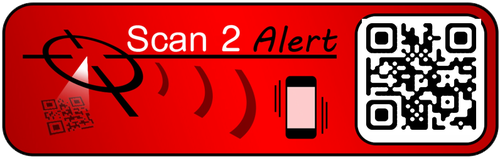
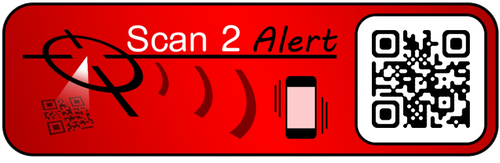
Pegatina horizontal: QR más pequeño, sin tocar las esquinas del recuadro
Claude-Session: https://claude.ai/code/session_013R8ZDYyWaBdvK9dXFoGibW

Changed region(s): [[0.72, 0.092, 0.99, 0.7975]]

diff --git a/index.html b/index.html
@@ -174,7 +174,7 @@ footer a{color:#fff;text-decoration:none}
   <div class="carrow">
     <figure class="cf big"><img class="tint" src="/img/mustang.png" alt="Mustang con las pegatinas Scan 2 Alert en el parabrisas y la ventanilla"><figcaption>Pégala por dentro del cristal, en espejo.<br>Elige un rojo intenso o un color más discreto: <span class="sw"><button type="button" class="swb on" data-c="#fe0000" title="Rojo" aria-label="Rojo" style="background:#fe0000"></button><button type="button" class="swb" data-c="#ff3300" title="Naranja" aria-label="Naranja" style="background:#ff3300"></button><button type="button" class="swb" data-c="#f6df00" title="Amarillo" aria-label="Amarillo" style="background:#f6df00"></button><button type="button" class="swb" data-c="#2e9e3a" title="Verde" aria-label="Verde" style="background:#2e9e3a"></button><button type="button" class="swb" data-c="#f0599b" title="Rosa" aria-label="Rosa" style="background:#f0599b"></button><button type="button" class="swb" data-c="#004c98" title="Azul" aria-label="Azul" style="background:#004c98"></button><button type="button" class="swb" data-c="#009cd7" title="Azul claro" aria-label="Azul claro" style="background:#009cd7"></button><button type="button" class="swb" data-c="#b4b9bc" title="Gris claro" aria-label="Gris claro" style="background:#b4b9bc"></button><button type="button" class="swb" data-c="#4a4f53" title="Gris oscuro" aria-label="Gris oscuro" style="background:#4a4f53"></button></span></figcaption></figure>
     <figure class="cf"><img class="tint" src="/img/pegatina-qr-redondeado.png" alt="Pegatina vertical"><figcaption>Parabrisas y luna trasera</figcaption></figure>
-    <figure class="cf"><img class="tint" src="/img/pegatina-horizontal.png" alt="Pegatina horizontal" style="width:100%"><figcaption>Ventanillas laterales</figcaption></figure>
+    <figure class="cf"><img class="tint" src="/img/pegatina-horizontal.png?v=2" alt="Pegatina horizontal" style="width:100%"><figcaption>Ventanillas laterales</figcaption></figure>
     <figure class="cf"><div class="phw"><img class="bm tl" src="/img/boomerang-rojo.png" alt=""><img class="bm tr" src="/img/boomerang-rojo.png" alt=""><img class="bm bl" src="/img/boomerang-rojo.png" alt=""><img class="bm br" src="/img/boomerang-rojo.png" alt=""><div class="ph" aria-label="Móvil sonando con la alerta a pantalla completa"><div class="scr"><small class="mm">Mi Mustang molesta</small><span class="sir"><img class="bn" src="/img/sirena-bn.png" alt=""><img class="rj" src="/img/sirena.png" alt=""></span><b>¡ALERTA!</b><em>Te avisan de tu coche</em></div></div></div><figcaption>Sirena en tu móvil</figcaption></figure>
   </div>
   <div class="tiles"><div><i><svg viewBox="0 0 24 24" width="40" height="40" style="display:block;margin:0 auto"><rect width="24" height="24" rx="7" fill="#1f86e0"/><path d="M8 8l8 8-4 3V5l4 3-8 8" fill="none" stroke="#fff" stroke-width="2" stroke-linecap="round" stroke-linejoin="round"/></svg></i><b>Se activa sola</b><small>con el Bluetooth del coche</small></div><div><i>🚗</i><b>Se apaga</b><small>al conducir</small></div><div><i>🏠</i><b>No suena</b><small>en lugares seguros</small></div><div><i>🚨</i><b>Sirena</b><small>a pantalla completa</small></div><div><i>💬</i><b>Chat</b><small>sin dar tu número</small></div><div><i>✅</i><b>Sabes</b><small>si lo han leído</small></div></div>
